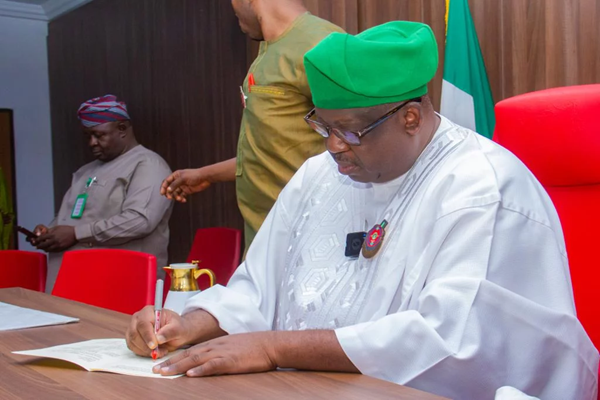
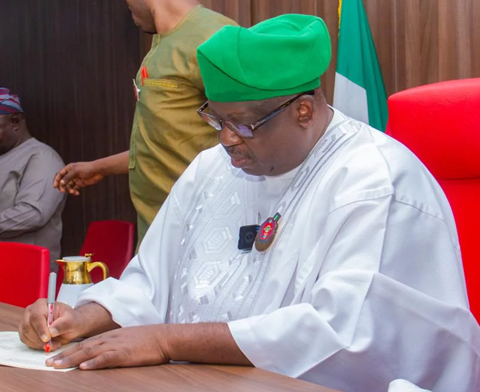
news details edited

diff --git a/src/sections/mobile/MobilenewsDetails.js b/src/sections/mobile/MobilenewsDetails.js
@@ -26,8 +26,8 @@ function MobilenewsDetails() {
                     {item.author} <BsDot size={'1rem'} />{' '}
                     <span>{item.date}</span>
                   </p>
-                  <div className='m-dtailsBanner'>
-                    <div className='m-imageHolder'></div>
+                  <div className='m-dtailsBannerimage'>
+                    
                     <img src={item.image} alt='' />
                   </div>
                   {item.content.split('\n').map((paragraph, index) => (

diff --git a/src/App.css b/src/App.css
@@ -624,7 +624,20 @@ width: 100%;
   margin-bottom: 20px;
 }
 
+.m-dtailsBannerimage{
+  width: 100%;
+  height: 350px;
+  display: flex;
+align-items: center;
+justify-content: center;
+  overflow: hidden;
+}
+.m-dtailsBannerimage img{
+width: 100%;
+height: 100%;
+object-fit: contain;
 
+}
 
 
 }
